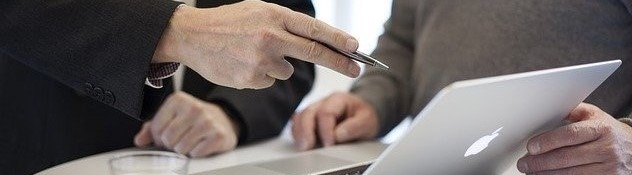
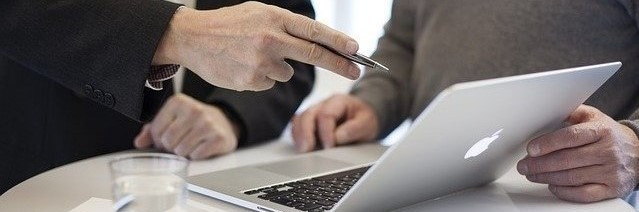
oem page's picture changed

diff --git a/src/components/Business_Components/OEMnODM.js b/src/components/Business_Components/OEMnODM.js
@@ -7,6 +7,9 @@ import SideNav from "./SideNav";
 import contract from "./Business_image/OEMnODM_IMGs/contract.jpg";
 import shaking_hands from "./Business_image/OEMnODM_IMGs/shaking_hands.jpg";
 import consulting from "./Business_image/OEMnODM_IMGs/consulting.jpg";
+import production from "./Business_image/OEMnODM_IMGs/production.png";
+import product from "./Business_image/OEMnODM_IMGs/product.png";
+import procurement from "./Business_image/OEMnODM_IMGs/procurement.jpg";
 
 
 
@@ -94,7 +97,7 @@ function OEMnODM() {
 
                             
                             
-                            <ul className="py-3 border border-light mb-0" style={{ backgroundColor: "#f4f4f4", listStyle:"none"}}>
+                            <ul className="py-4 border border-light mb-0" style={{ backgroundColor: "#f4f4f4", listStyle:"none"}}>
                                 <li>Requirements Consultation & contract</li>
                                 <li>고객요구진단&계약</li>
                             </ul>
@@ -110,14 +113,14 @@ function OEMnODM() {
 
                     <MDBRow className="">
                         <MDBCol size="8" className="pr-0">                                
-                            <ul className="py-3 border border-light mb-0" style={{ backgroundColor: "#f4f4f4", listStyle:"none"}}>
+                            <ul className="py-4 border border-light mb-0" style={{ backgroundColor: "#f4f4f4", listStyle:"none"}}>
                                     <li>Procurement of resources and Sample production</li>
                                     <li>원료조달 & 시제품생산</li>
                             </ul>
                         </MDBCol>
 
                         <MDBCol size="4" className="pl-0 px-md-0 mb-0" style={{display:"flex", alignItems:"center"}}>
-                            <FittedImage fit="cover" src={consulting} />
+                            <FittedImage fit="cover" src={procurement} />
                         </MDBCol>
                     </MDBRow>
 
@@ -125,14 +128,14 @@ function OEMnODM() {
 
                     <MDBRow className="">
                         <MDBCol size="8" className="pr-0">                                
-                            <ul className="py-3 border border-light mb-0" style={{ backgroundColor: "#f4f4f4", listStyle:"none" }}>
+                            <ul className="py-4 border border-light mb-0" style={{ backgroundColor: "#f4f4f4", listStyle:"none" }}>
                                     <li>Quality control & Production</li>
                                     <li>품질확인 & 생산</li>
                             </ul>
                         </MDBCol>
 
                         <MDBCol size="4" className="pl-0 px-md-0 mb-0" style={{display:"flex", alignItems:"center"}}>
-                            <FittedImage fit="cover" src={consulting} />
+                            <FittedImage fit="cover" src={production} />
                         </MDBCol>
                     </MDBRow>
 
@@ -140,14 +143,14 @@ function OEMnODM() {
 
                     <MDBRow className="pb-5 border-bottom border-light">
                         <MDBCol size="8" className="pr-0">                                
-                            <ul className="py-3 border border-light mb-0" style={{ backgroundColor: "#f4f4f4", listStyle:"none" }}>
+                            <ul className="py-4 border border-light mb-0" style={{ backgroundColor: "#f4f4f4", listStyle:"none" }}>
                                     <li>Supply of product</li>
                                     <li>제품공급</li>
                             </ul>
                         </MDBCol>
 
                         <MDBCol size="4" className="pl-0 px-md-0 mb-0" style={{display:"flex", alignItems:"center"}}>
-                            <FittedImage fit="cover" src={consulting} />
+                            <FittedImage fit="cover" src={product} />
                         </MDBCol>
                     </MDBRow>
 
